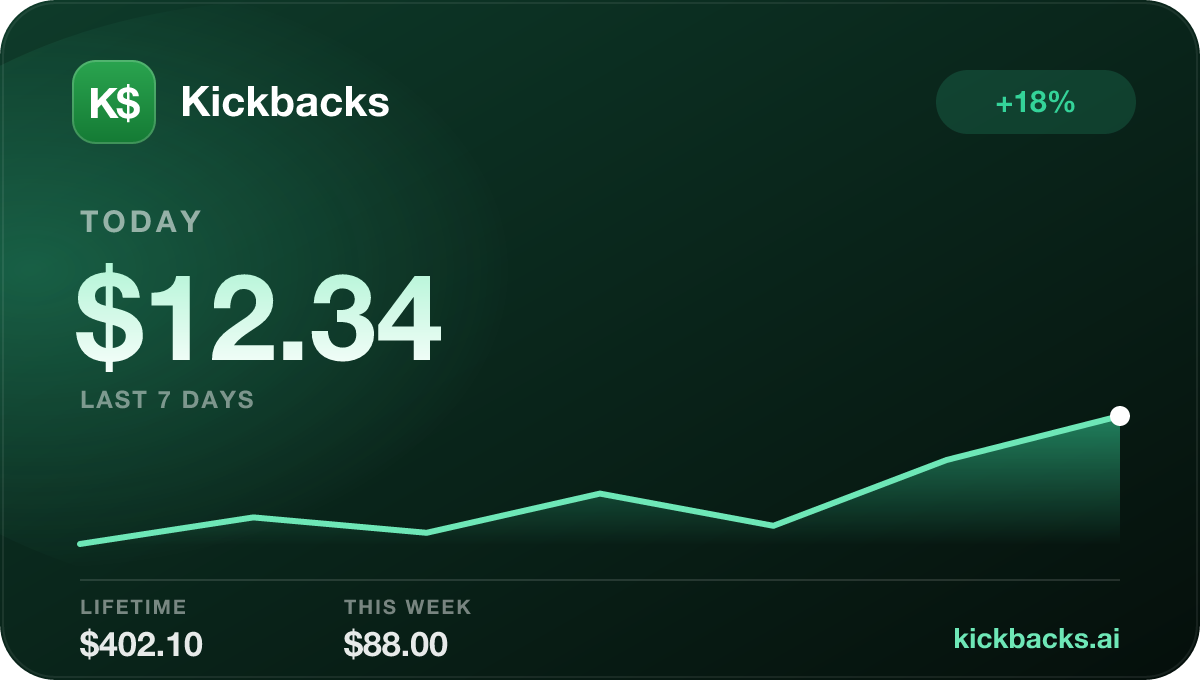
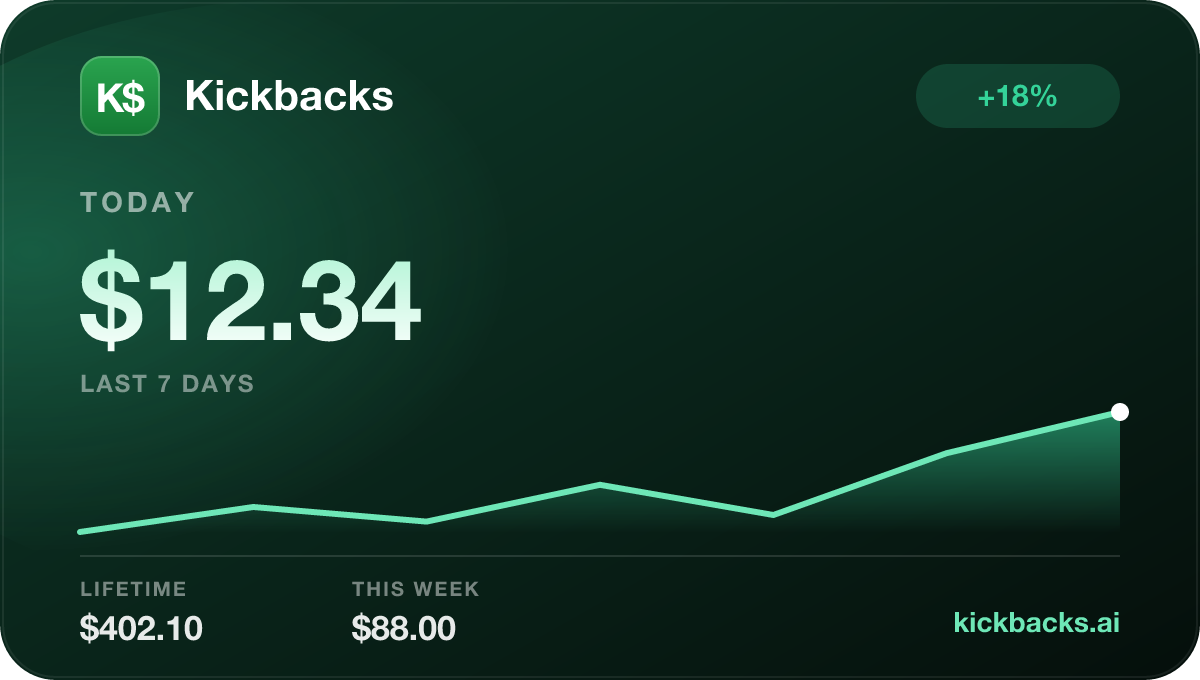
docs: real menu-bar screenshots + warmer README; balanced share cards (today + lifetime)
- README rewritten in a human voice (why-it-exists, plain-language features) instead of a
  spec sheet; centered logo header.
- Add the three real menu-bar screenshots you shared: real, demo, and privacy modes.
- Rework the share-card mocks with a consistent grid (aligned left edges + balanced
  margins) and add a Lifetime variant alongside Today.

diff --git a/README.md b/README.md
@@ -4,97 +4,124 @@
 
 # Kickbacks
 
-An unofficial, **read-only** companion for [Kickbacks.ai](https://kickbacks.ai) — a CLI and a native macOS menu-bar app that show *your own* earnings outside VS Code, keep the local history the API doesn't, and warn you when ad injection silently stops earning.
+**See your [Kickbacks.ai](https://kickbacks.ai) earnings without opening VS Code.**
+
+A tiny, read-only macOS menu-bar app (plus a CLI) that keeps today's total a glance away,
+remembers the history the API forgets, and gives you a heads-up if the ads quietly stop paying.
 
 [![CI](https://github.com/amitray007/kickbacks/actions/workflows/ci.yml/badge.svg)](https://github.com/amitray007/kickbacks/actions/workflows/ci.yml)
 [![Release](https://img.shields.io/github/v/release/amitray007/kickbacks?sort=semver)](https://github.com/amitray007/kickbacks/releases)
 [![License](https://img.shields.io/badge/license-Apache--2.0-blue.svg)](LICENSE)
 
-<img src=".github/assets/share-card.png" alt="Kickbacks share card" width="560">
-
-<sub><i>One of the built-in share cards (Today / This week / Lifetime).</i></sub>
+<img src=".github/assets/panel-real.png" alt="The Kickbacks menu-bar panel" width="320">
 
 </div>
 
-> **Not affiliated** with Kickbacks.ai or ShiftKeys, Inc. It reads only your own account data (`GET /v1/portfolio`, `GET /v1/earnings`) and **never** sends billing or impression events. Read-only, forever.
+> Not affiliated with Kickbacks.ai or ShiftKeys, Inc. Kickbacks reads only your own account
+> (`GET /v1/portfolio`, `GET /v1/earnings`) and never sends a billing or impression event.
+> Read-only, full stop.
 
-## Features
+## Why this exists
 
-- **Menu-bar app** — today's earnings always in the menu bar (`K$ 12.34`); a rich dropdown with today/lifetime, your hourly/daily caps, recent ads, and inline history.
-- **Live CLI** — `kickbacks` for a one-shot dashboard, `kickbacks watch` for a live TUI.
-- **Local history** — samples into SQLite, so you get this-week/this-month, best day, averages, and pace projections the API doesn't keep.
-- **Alerts** — native notifications when you hit a cap or cross a lifetime milestone, via a background launchd poller (works with VS Code closed).
-- **Share cards** — generate a polished earnings image (Today / This week / Lifetime) to copy, save, or post.
-- **Privacy & demo modes** — mask amounts for screen-sharing, or show believable sample numbers.
-- **Floating HUD** — a pinnable, always-on-top mini window.
+Kickbacks.ai pays you for ads shown while you code — but the dashboard lives inside VS Code,
+and the API keeps no history. So the simple questions are oddly hard to answer: *how much did
+I make this week? Is earning still working, or did it quietly break an hour ago?*
 
-## Install (Homebrew)
+Kickbacks answers those from your menu bar, in any app, even with VS Code closed.
+
+## What you get
+
+- **Today, always in your menu bar.** Your running total sits up top as `K$ 12.34`. Click it for the full picture: today vs. lifetime, your hourly/daily caps, the ads you've been served, and a clean history.
+- **A proper CLI.** `kickbacks` for a quick read, `kickbacks watch` for a live dashboard right in the terminal.
+- **The history the API throws away.** It quietly samples into a local SQLite database, so you get this week, this month, your best day, a daily average, and where you're trending.
+- **A nudge when something's off.** A background check pings you when you hit a cap or cross a lifetime milestone — no need to keep the editor open.
+- **Shareable cards.** Turn today, the week, or your all-time total into a polished image worth posting.
+
+### Built for screenshots and screen-shares
+
+Recording a demo or pairing with someone? Flip on **Demo mode** for believable-but-fake numbers,
+or **Privacy mode** to blur every dollar amount.
+
+<table>
+  <tr>
+    <td align="center"><img src=".github/assets/panel-demo.png" width="280"><br><sub><b>Demo mode</b> — believable, fake</sub></td>
+    <td align="center"><img src=".github/assets/panel-privacy.png" width="280"><br><sub><b>Privacy mode</b> — amounts blurred</sub></td>
+  </tr>
+</table>
+
+And when you want to show off a good day, the share card turns any view — today, the week, or your all-time total — into an image:
+
+<table>
+  <tr>
+    <td align="center"><img src=".github/assets/share-card.png" width="380"><br><sub>Today</sub></td>
+    <td align="center"><img src=".github/assets/share-card-lifetime.png" width="380"><br><sub>Lifetime</sub></td>
+  </tr>
+</table>
+
+## Install
+
+It's a [Homebrew](https://brew.sh) tap that builds from source — no code-signing or notarization,
+nothing to trust but the code you can read right here.
 
 ```bash
 brew tap amitray007/kickbacks https://github.com/amitray007/kickbacks
-brew trust amitray007/kickbacks          # one-time: Homebrew gates third-party taps
-brew install kickbacks                   # builds the CLI + menu-bar app from source (bun + swift)
+brew trust amitray007/kickbacks      # one-time — Homebrew gates third-party taps
+brew install kickbacks
 
-kickbacks login                          # sign in with Google
-kickbacks                                # earnings dashboard   ·   kickbacks watch  for live
-kickbacks bar install                    # run the menu-bar app at login
-kickbacks poller install                 # background sampling + cap / milestone alerts
+kickbacks login                      # sign in with Google
+kickbacks                            # the dashboard  ·  kickbacks watch  for the live view
+kickbacks bar install                # keep the menu-bar app running at login
+kickbacks poller install             # background checks + cap / milestone alerts
 ```
 
-Upgrade later with `brew update && brew upgrade kickbacks`. The [formula](Formula/kickbacks.rb) builds from source, so **no code-signing or notarization is required** — it compiles on your machine.
+Updating later is just `brew update && brew upgrade kickbacks`. Not a Homebrew person? Clone the
+repo and run `scripts/install-app.sh` — it builds a self-contained `Kickbacks.app` (the CLI tucked
+inside) and drops it in `/Applications`.
 
-**Prefer a Mac app without Homebrew?** Clone the repo and run `scripts/install-app.sh` — it builds a self-contained `Kickbacks.app` (the CLI is bundled inside) and installs it to `/Applications`.
-
-## Commands
+## The commands
 
 | Command | What it does |
 |---|---|
 | `kickbacks` | One-shot earnings dashboard |
-| `kickbacks watch` | Live TUI dashboard (`r` refresh · `q` quit) |
+| `kickbacks watch` | Live dashboard in the terminal (`q` to quit) |
 | `kickbacks earnings` | Earnings + cap detail |
-| `kickbacks status` | Auth + config status |
+| `kickbacks status` | Where you're signed in, where data lives |
 | `kickbacks login` / `logout` | Google sign-in / sign-out |
-| `kickbacks poller install\|uninstall\|status` | Background sampler + alerts (launchd) |
-| `kickbacks bar install\|uninstall\|status` | Menu-bar app at login |
+| `kickbacks poller install` | Background sampler + alerts (launchd) |
+| `kickbacks bar install` | Menu-bar app at login |
+| `kickbacks --version` | Print the version |
 
 ## How it works
 
 Two tools, two languages, one shared local store:
 
-- **`cli/`** — TypeScript on [Bun](https://bun.sh): the API client, its own Google-OAuth session, a `bun:sqlite` history store, all the earnings logic, and the poller/watchdog.
-- **`app/`** — a Swift `MenuBarExtra` app. It holds no business logic; it shells out to `kickbacks model` / `kickbacks history` and renders the result — keeping a single source of truth in TypeScript.
+- **`cli/`** — TypeScript on [Bun](https://bun.sh). It does all the real work: the API client, its own Google sign-in, the SQLite history, and the background poller.
+- **`app/`** — a Swift `MenuBarExtra` app. It deliberately knows nothing about earnings; it just runs `kickbacks model` / `kickbacks history` and draws the result. One source of truth, in TypeScript.
 
-The two are bridged by the local SQLite store, not by shared code. Full design notes live in [docs/](docs/).
+They talk through the local database, never through shared code. The deeper design notes live in [docs/](docs/).
 
 ## Configuration
 
-All optional, via environment variables:
+All optional, set via the environment:
 
-| Variable | Default | Purpose |
+| Variable | Default | What it's for |
 |---|---|---|
-| `KICKBACKS_CONFIG_DIR` | `~/.config/kickbacks` | tokens + history database |
-| `KICKBACKS_POLL_SECONDS` | `180` | background poller cadence (min 30) |
-| `KICKBACKS_ACTIVITY_DIRS` | `~/.claude/projects` | "actively coding" heuristic source |
-| `KICKBACKS_BASE` | Kickbacks backend | ⚠️ your OAuth bearer token is sent here — only point it at infrastructure you trust |
+| `KICKBACKS_CONFIG_DIR` | `~/.config/kickbacks` | where your tokens + history live |
+| `KICKBACKS_POLL_SECONDS` | `180` | how often the background poller samples |
+| `KICKBACKS_ACTIVITY_DIRS` | `~/.claude/projects` | what counts as "actively coding" |
+| `KICKBACKS_BASE` | the Kickbacks backend | ⚠️ your bearer token is sent here — point it only at hosts you trust |
 
 ## Privacy & security
 
-Read-only by design — it never `POST`s metrics or impression events. Your OAuth tokens live only in `~/.config/kickbacks/auth.json` on your own machine. See [SECURITY.md](SECURITY.md).
+Read-only by design — it never writes anything back. Your tokens stay in
+`~/.config/kickbacks/auth.json` on your own machine, and nothing is sent to any third party.
+More in [SECURITY.md](SECURITY.md).
 
 ## Contributing
 
-PRs welcome — see [CONTRIBUTING.md](CONTRIBUTING.md) for build/test setup and conventions.
-
-## Building from source
-
-```bash
-# CLI (TypeScript / Bun)
-cd cli && bun install && bun test && bun run build      # → dist/kickbacks
-
-# Menu-bar app (Swift)
-cd app && swift build && swift test
-```
+Issues and PRs are welcome — [CONTRIBUTING.md](CONTRIBUTING.md) has the build/test setup and the
+one rule that matters: it stays read-only.
 
 ## License
 
-[Apache-2.0](LICENSE). Not affiliated with Kickbacks.ai / ShiftKeys, Inc.
+[Apache-2.0](LICENSE). A community project — not affiliated with Kickbacks.ai / ShiftKeys, Inc.